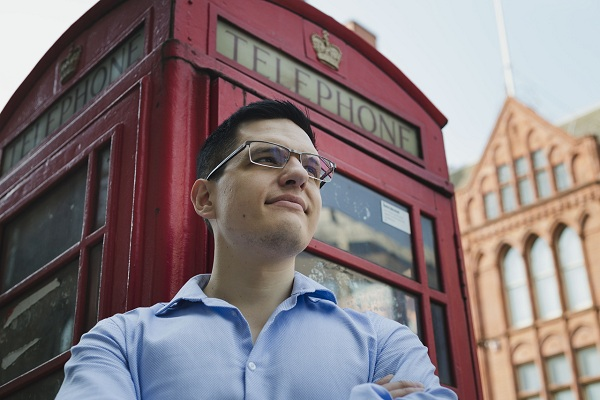
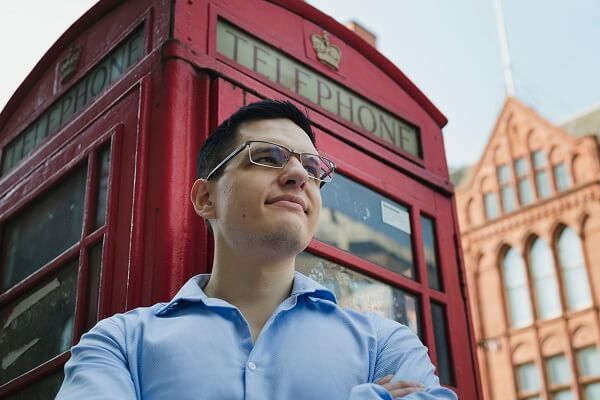
Optimize image size in Gryko card

diff --git a/src/templates/partials/_speakers.html b/src/templates/partials/_speakers.html
@@ -66,7 +66,7 @@
     },
     {
       img: 'Gryko.jpg',
-      img2: 'GrykoX2.jpg',
+      img2: 'Gryko2x.jpg',
       name: "Piotr Gryko",
       link: 'https://www.facebook.com/piotr.gryko',
       position: 'R&D Software Engineer',
